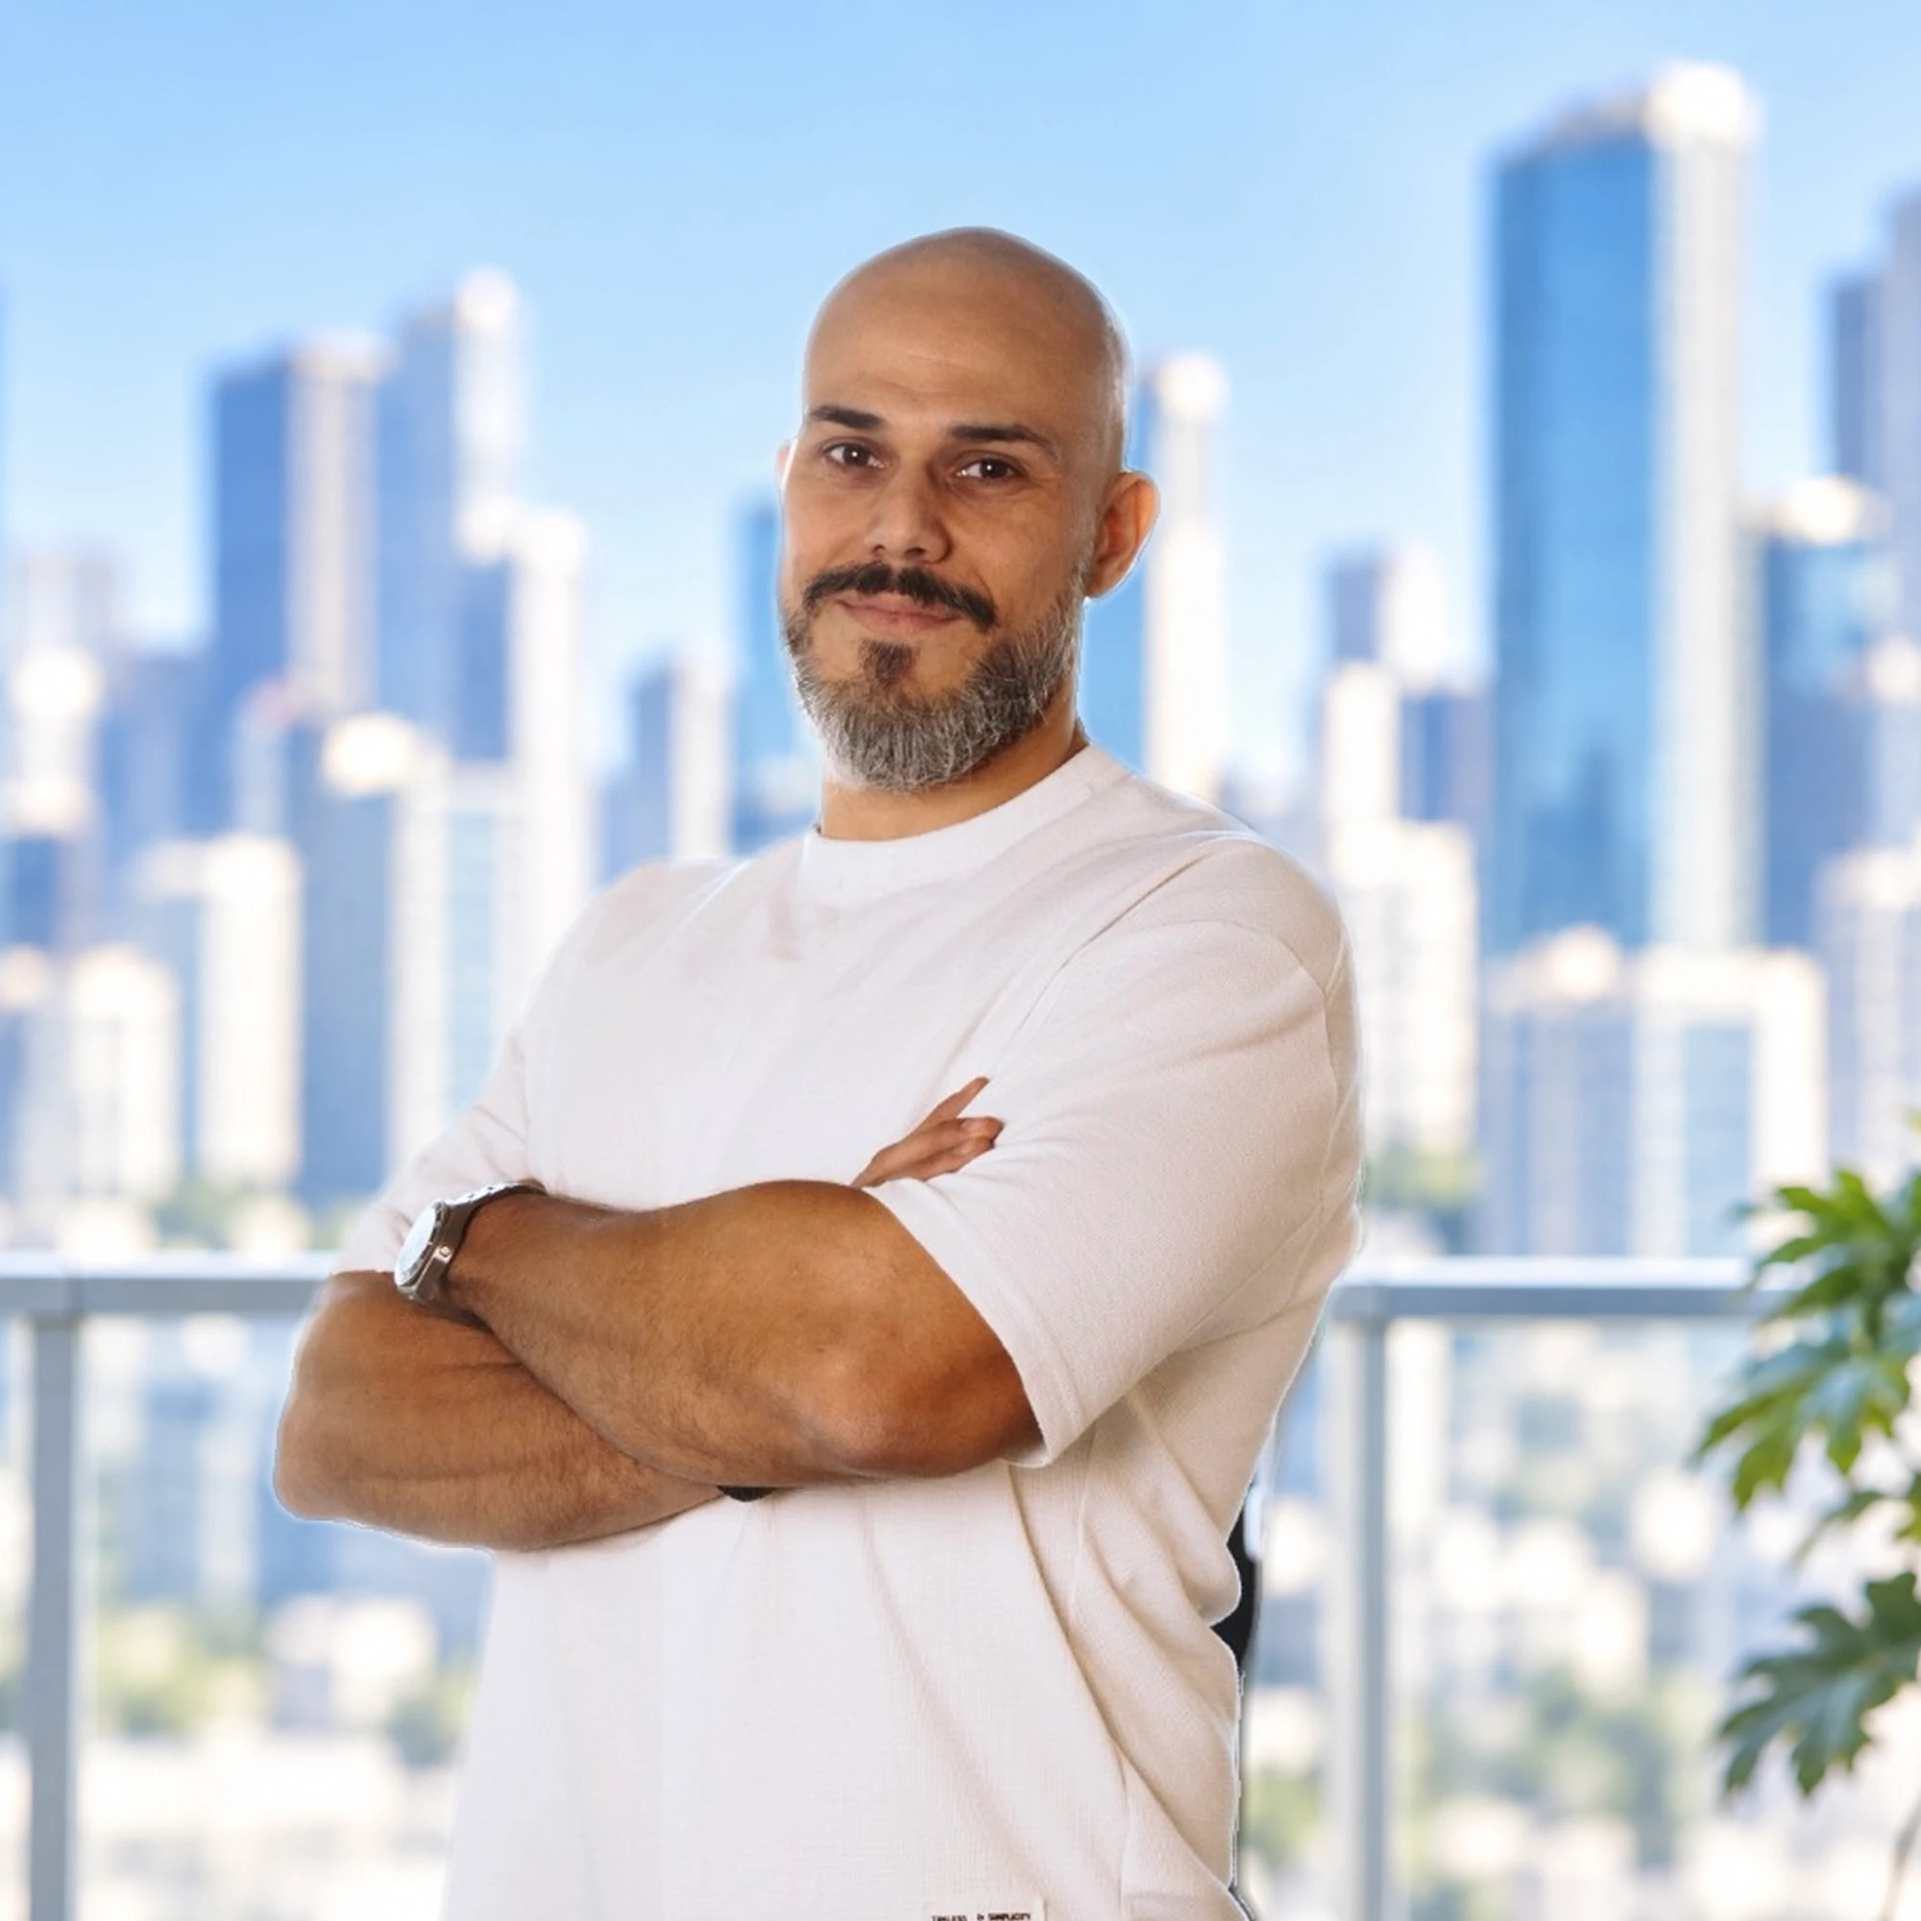
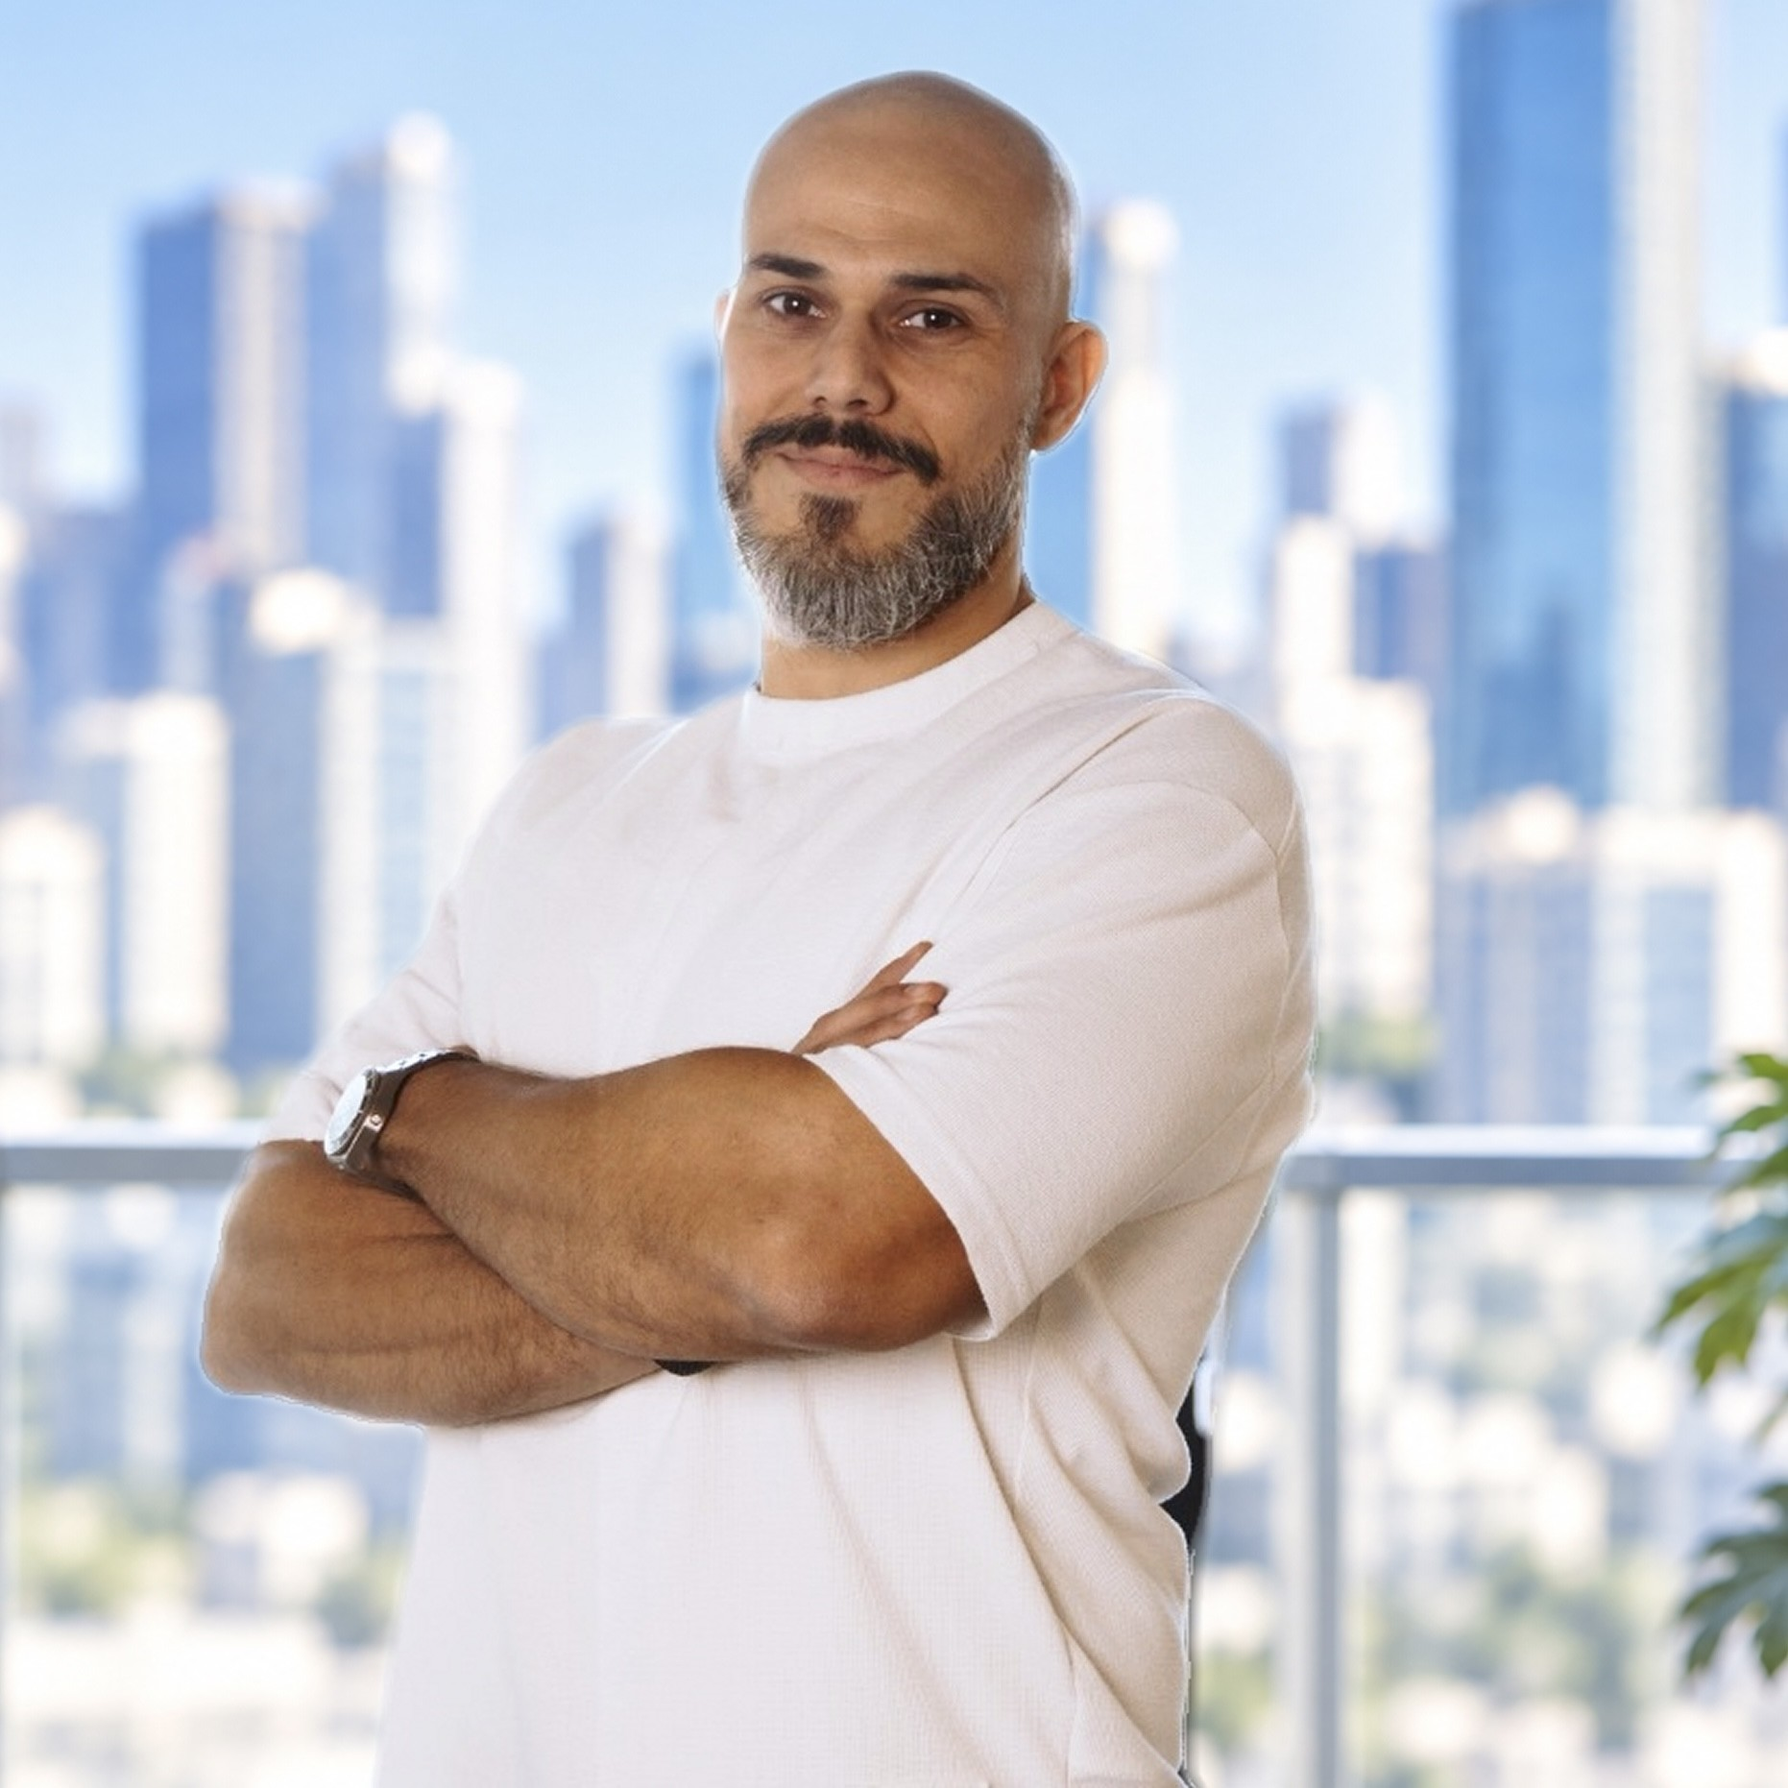
Use Amit Friedman's new portrait

diff --git a/components/sections/Personnel.tsx b/components/sections/Personnel.tsx
@@ -15,7 +15,7 @@ import { assetPath } from "@/lib/basePath";
 // behind hover -- names and roles are always visible, on every device.
 // Bump when portrait files are replaced in place: the host caches images for
 // a day by URL, so a new query string is what makes visitors fetch the new set.
-const PORTRAIT_VERSION = "2026-11-02d";
+const PORTRAIT_VERSION = "2026-11-02e";
 
 function PersonEntry({ person, index }: { person: Person; index: number }) {
   return (
